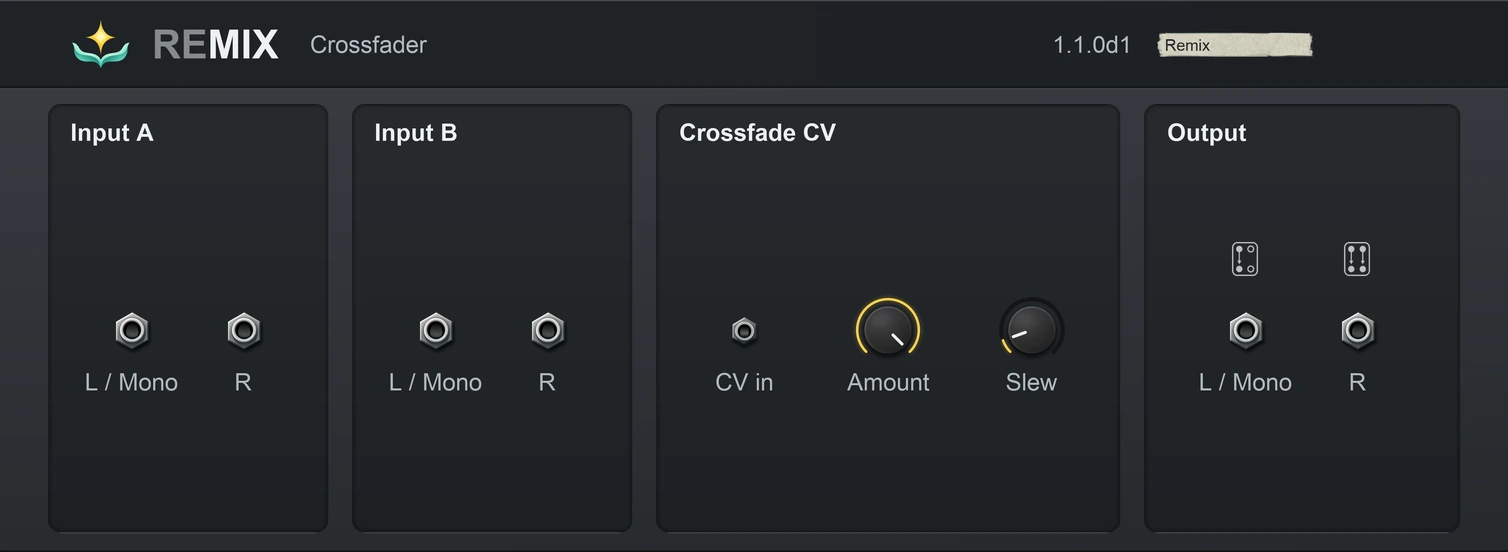
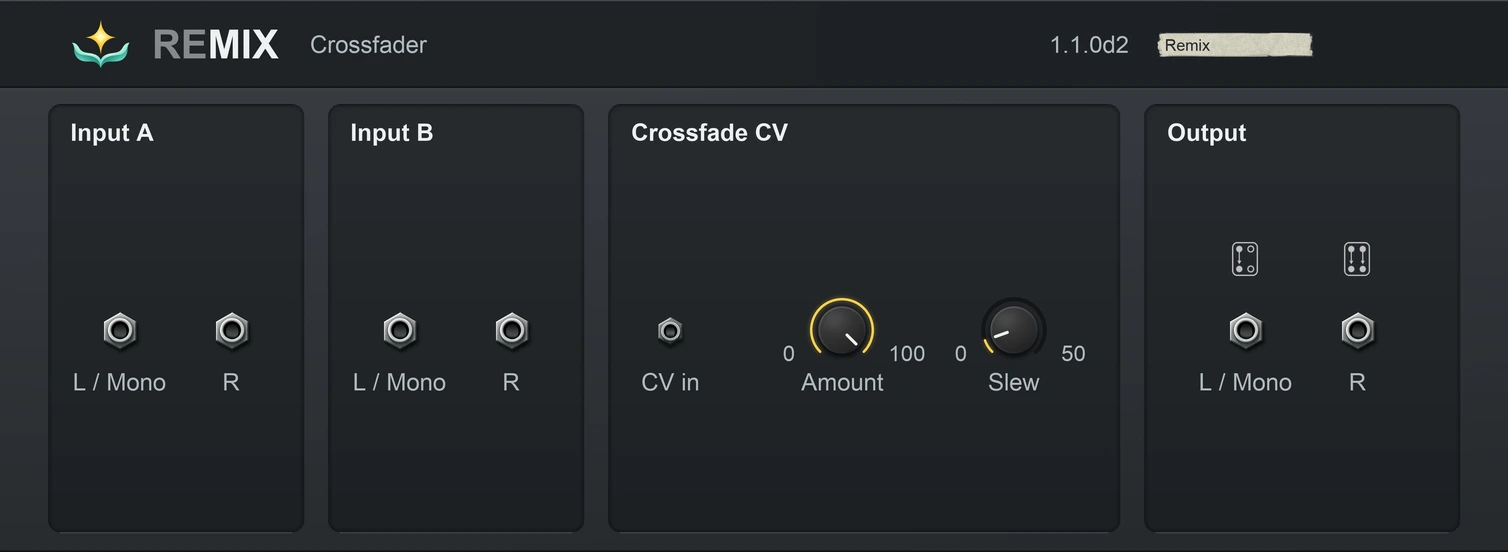
Remix 1.1.0d2 panels: Mix fader under the scope
Claude-Session: https://claude.ai/code/session_01NMJbGoVr5mAcZK4ePGkiDy

diff --git a/product/remix/index.html b/product/remix/index.html
@@ -116,8 +116,8 @@
           </div>
         </div>
         <figure class="shot hero-shot">
-          <a class="screenshot-link" href="remix-rack-front.webp?v=20261106-1.1.0" aria-label="View the Remix Rack Extension front panel at full size" data-analytics-cta="front_panel" data-analytics-action="view_screenshot">
-            <img src="remix-rack-front.webp?v=20261106-1.1.0" width="1508" height="552" fetchpriority="high" decoding="async" alt="Remix Rack Extension front panel with a live crossfade scope, the Shape and Skew knobs, the Mix knob and level meters">
+          <a class="screenshot-link" href="remix-rack-front.webp?v=20261107-1.1.0" aria-label="View the Remix Rack Extension front panel at full size" data-analytics-cta="front_panel" data-analytics-action="view_screenshot">
+            <img src="remix-rack-front.webp?v=20261107-1.1.0" width="1508" height="552" fetchpriority="high" decoding="async" alt="Remix Rack Extension front panel with a live crossfade scope, the Mix fader under it, the Shape and Skew knobs and level meters">
             <span class="shot-caption">Front panel · development build <span>View full size <span aria-hidden="true">↗</span></span></span>
           </a>
         </figure>
@@ -133,7 +133,7 @@
         </div>
         <ul class="features">
           <li><h3>Shape and Skew</h3><p>The logarithmic end, the default, holds the level between two different tracks with no dip in the middle. Linear suits two copies of the same signal; the exponential end lets B in late. Skew lets A hold on longer or brings B in early.</p></li>
-          <li><h3>CV takes over</h3><p>Patch CV into the back and it takes over from the Mix knob; a rear Amount control scales it, and a lamp shows when CV has control.</p></li>
+          <li><h3>CV takes over</h3><p>Patch CV into the back and it takes over from the Mix fader; a rear Amount control scales it, and a lamp shows when CV has control.</p></li>
           <li><h3>Stereo or mono</h3><p>Each input pair also accepts a mono source, and left and right stay separate throughout the crossfade.</p></li>
           <li><h3>Smooth under automation</h3><p>Slew of up to 50 ms smooths changes in CV, position, Shape or Skew, and slow automated fades glide without steps. Automate Mix, Shape, Skew, Slew and CV Amount to build transitions into an arrangement.</p></li>
         </ul>
@@ -149,8 +149,8 @@
           <p class="lede">A CV indicator shows when external control takes over, and a rear-panel amount control attenuates the incoming CV. Remix sits with the Utilities and has no bypass, because a crossfader is always mixing.</p>
         </div>
         <figure class="shot">
-          <a class="screenshot-link" href="remix-rack-rear.webp?v=20261106-1.1.0" aria-label="View the Remix Rack Extension rear panel at full size" data-analytics-cta="rear_panel" data-analytics-action="view_screenshot">
-            <img src="remix-rack-rear.webp?v=20261106-1.1.0" width="1508" height="552" loading="lazy" decoding="async" alt="Remix Rack Extension rear panel and connections">
+          <a class="screenshot-link" href="remix-rack-rear.webp?v=20261107-1.1.0" aria-label="View the Remix Rack Extension rear panel at full size" data-analytics-cta="rear_panel" data-analytics-action="view_screenshot">
+            <img src="remix-rack-rear.webp?v=20261107-1.1.0" width="1508" height="552" loading="lazy" decoding="async" alt="Remix Rack Extension rear panel and connections">
             <span class="shot-caption">Rear panel &amp; connections <span>View full size <span aria-hidden="true">↗</span></span></span>
           </a>
         </figure>
@@ -169,7 +169,7 @@
           <dl class="platforms">
             <div><dt>Format</dt><dd>Rack Extension for Reason · 4U</dd></div>
             <div><dt>Audio</dt><dd>Two stereo or mono inputs, stereo output</dd></div>
-            <div><dt>Control</dt><dd>Mix knob, CV, automation</dd></div>
+            <div><dt>Control</dt><dd>Mix fader, CV, automation</dd></div>
             <div><dt>Availability</dt><dd>Free · coming soon!</dd></div>
           </dl>
         </aside>
